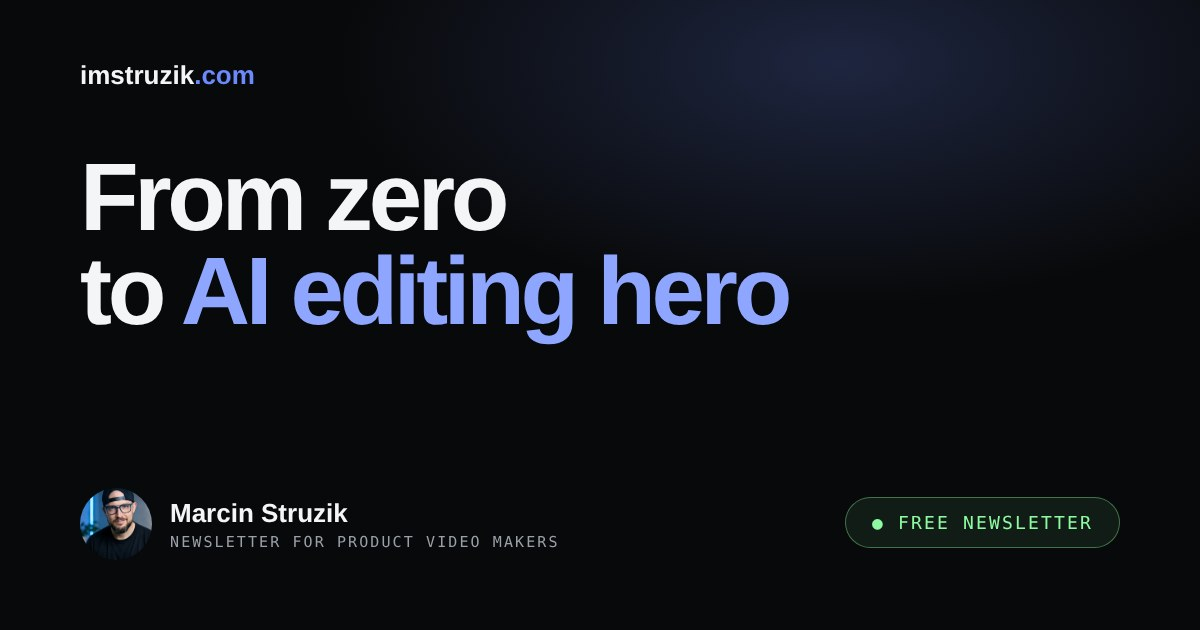
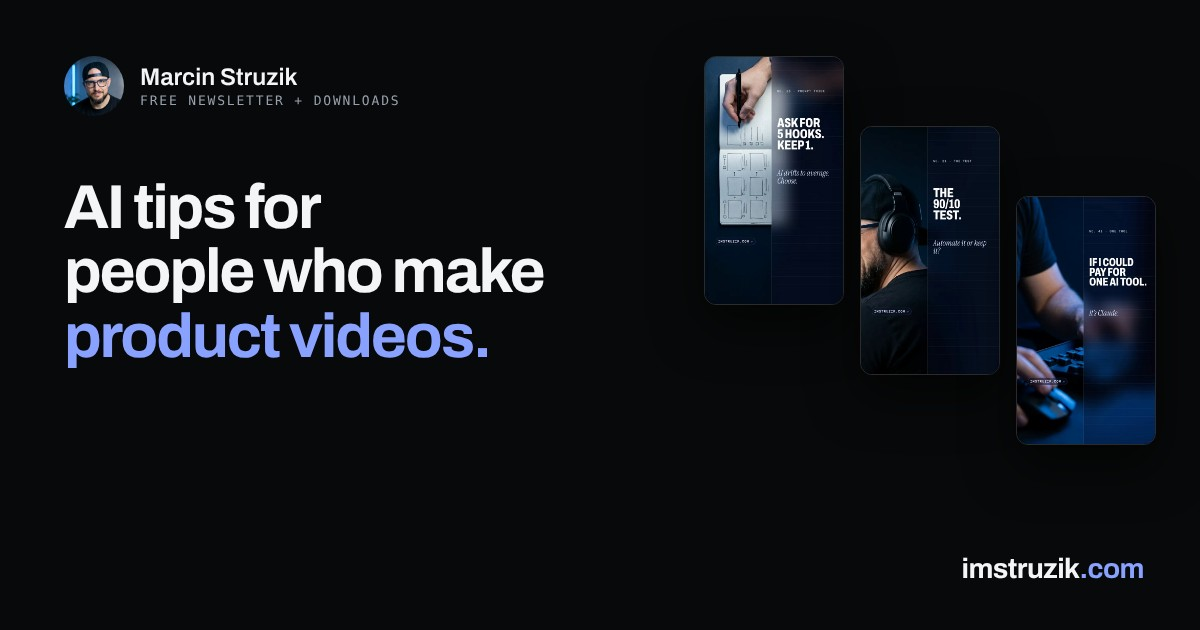
New share image (reels strip, name top left) (#44)
* New share image: reels strip, name top left

Claude-Session: https://claude.ai/code/session_01WKxfWPVh5Tw53U8pe1kwts

* Share image cache bust on all pages

Claude-Session: https://claude.ai/code/session_01WKxfWPVh5Tw53U8pe1kwts

---------

diff --git a/notes/index.html b/notes/index.html
@@ -17,14 +17,14 @@
 <meta property="og:site_name" content="imstruzik.com">
 <meta property="og:title" content="The AI Cut: How I Work with AI | Marcin Struzik">
 <meta property="og:description" content="Every note Marcin Struzik has written on using AI in SaaS product video: scripting, editing, free tools, and the tools worth keeping.">
-<meta property="og:image" content="https://imstruzik.com/og.jpg?v=4">
+<meta property="og:image" content="https://imstruzik.com/og.jpg?v=6">
 <meta property="og:image:width" content="1200">
 <meta property="og:image:height" content="630">
 
 <meta name="twitter:card" content="summary_large_image">
 <meta name="twitter:title" content="The AI Cut: How I Work with AI | Marcin Struzik">
 <meta name="twitter:description" content="Every note Marcin Struzik has written on using AI in SaaS product video: scripting, editing, free tools, and the tools worth keeping.">
-<meta name="twitter:image" content="https://imstruzik.com/og.jpg?v=4">
+<meta name="twitter:image" content="https://imstruzik.com/og.jpg?v=6">
 
 <link rel="icon" type="image/png" href="/favicon.png">
 <link rel="apple-touch-icon" href="/favicon.png">

diff --git a/index.html b/index.html
@@ -17,14 +17,14 @@
 <meta property="og:site_name" content="imstruzik.com">
 <meta property="og:title" content="Marcin Struzik: AI Motion Designer">
 <meta property="og:description" content="Marcin Struzik, AI motion designer. 14+ years in SaaS product video. Free AI notes and downloads for people who make product videos.">
-<meta property="og:image" content="https://imstruzik.com/og.jpg?v=5">
+<meta property="og:image" content="https://imstruzik.com/og.jpg?v=6">
 <meta property="og:image:width" content="1200">
 <meta property="og:image:height" content="630">
 
 <meta name="twitter:card" content="summary_large_image">
 <meta name="twitter:title" content="Marcin Struzik: AI Motion Designer">
 <meta name="twitter:description" content="Marcin Struzik, AI motion designer. 14+ years in SaaS product video. Free AI notes and downloads for people who make product videos.">
-<meta name="twitter:image" content="https://imstruzik.com/og.jpg?v=5">
+<meta name="twitter:image" content="https://imstruzik.com/og.jpg?v=6">
 
 <link rel="icon" type="image/png" href="/favicon.png">
 <link rel="apple-touch-icon" href="/favicon.png">

diff --git a/downloads/index.html b/downloads/index.html
@@ -17,14 +17,14 @@
 <meta property="og:site_name" content="imstruzik.com">
 <meta property="og:title" content="Free Downloads for Video Creators | Marcin Struzik">
 <meta property="og:description" content="Four PDFs and a browser extension Marcin Struzik made for his own SaaS video work. Free with one signup.">
-<meta property="og:image" content="https://imstruzik.com/og.jpg?v=4">
+<meta property="og:image" content="https://imstruzik.com/og.jpg?v=6">
 <meta property="og:image:width" content="1200">
 <meta property="og:image:height" content="630">
 
 <meta name="twitter:card" content="summary_large_image">
 <meta name="twitter:title" content="Free Downloads for Video Creators | Marcin Struzik">
 <meta name="twitter:description" content="Four PDFs and a browser extension Marcin Struzik made for his own SaaS video work. Free with one signup.">
-<meta name="twitter:image" content="https://imstruzik.com/og.jpg?v=4">
+<meta name="twitter:image" content="https://imstruzik.com/og.jpg?v=6">
 
 <link rel="icon" type="image/png" href="/favicon.png">
 <link rel="apple-touch-icon" href="/favicon.png">

diff --git a/privacy/index.html b/privacy/index.html
@@ -17,14 +17,14 @@
 <meta property="og:site_name" content="imstruzik.com">
 <meta property="og:title" content="Privacy Policy">
 <meta property="og:description" content="How imstruzik.com handles your data: the newsletter, cookie-free analytics, embedded videos and what stays only in your browser.">
-<meta property="og:image" content="https://imstruzik.com/og.jpg?v=4">
+<meta property="og:image" content="https://imstruzik.com/og.jpg?v=6">
 <meta property="og:image:width" content="1200">
 <meta property="og:image:height" content="630">
 
 <meta name="twitter:card" content="summary_large_image">
 <meta name="twitter:title" content="Privacy Policy">
 <meta name="twitter:description" content="How imstruzik.com handles your data: the newsletter, cookie-free analytics, embedded videos and what stays only in your browser.">
-<meta name="twitter:image" content="https://imstruzik.com/og.jpg?v=4">
+<meta name="twitter:image" content="https://imstruzik.com/og.jpg?v=6">
 
 <script type="application/ld+json">
 {

diff --git a/uses/index.html b/uses/index.html
@@ -17,14 +17,14 @@
 <meta property="og:site_name" content="imstruzik.com">
 <meta property="og:title" content="What I Use">
 <meta property="og:description" content="The tools I use for SaaS video work and recommend, with affiliate links clearly marked.">
-<meta property="og:image" content="https://imstruzik.com/og.jpg?v=4">
+<meta property="og:image" content="https://imstruzik.com/og.jpg?v=6">
 <meta property="og:image:width" content="1200">
 <meta property="og:image:height" content="630">
 
 <meta name="twitter:card" content="summary_large_image">
 <meta name="twitter:title" content="What I Use">
 <meta name="twitter:description" content="The tools I use for SaaS video work and recommend, with affiliate links clearly marked.">
-<meta name="twitter:image" content="https://imstruzik.com/og.jpg?v=4">
+<meta name="twitter:image" content="https://imstruzik.com/og.jpg?v=6">
 
 <script type="application/ld+json">
 {
